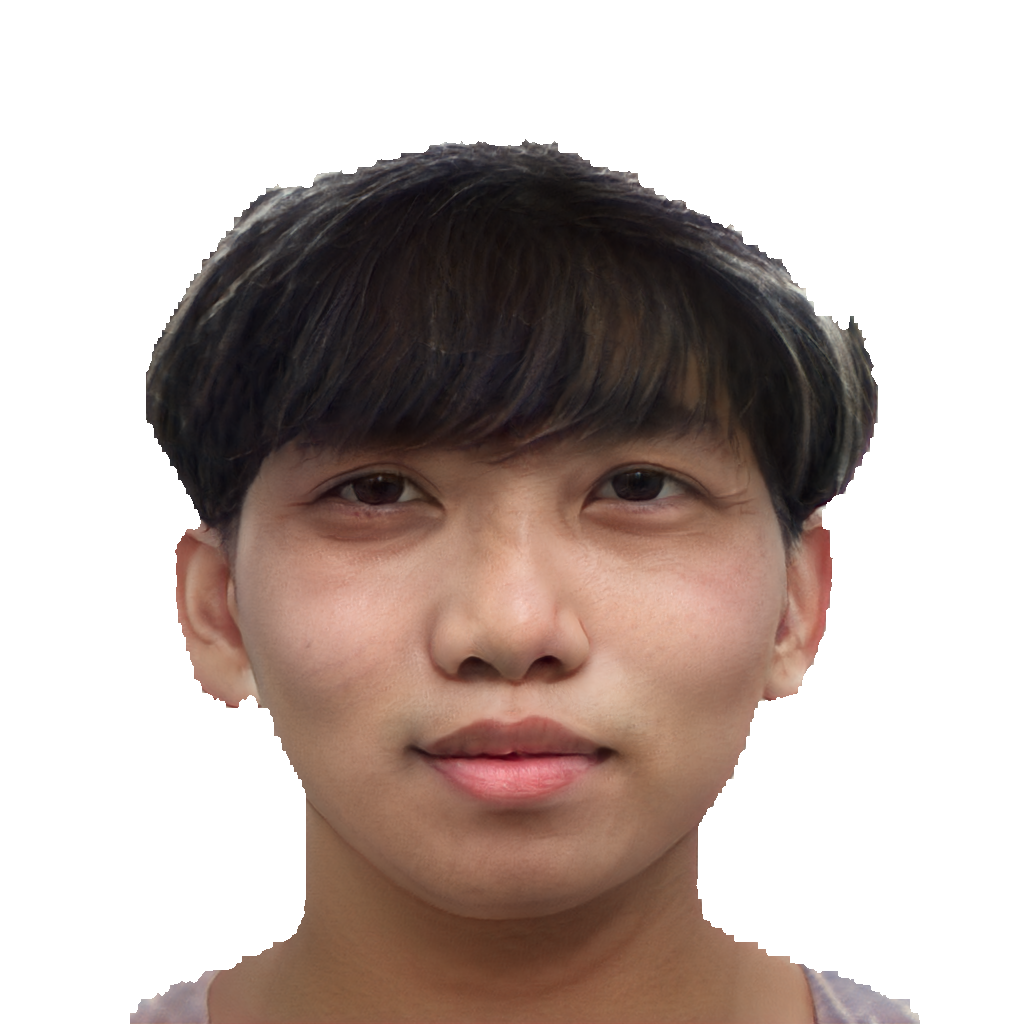
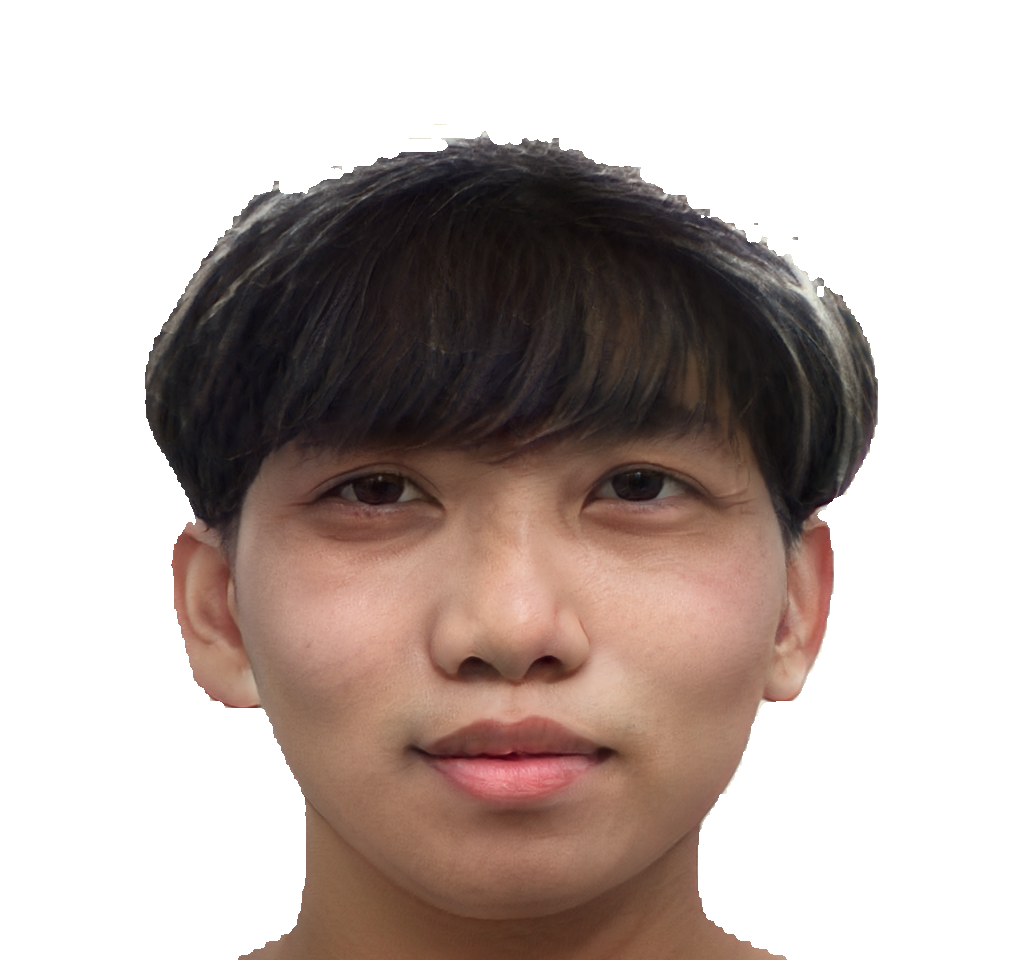
feat: integrate with HPE and StyleGAN, add defense front-end, update sprite

Changed region(s): [[0.125, 0.125, 0.9062, 1.0], [0.125, 0.9062, 0.3125, 1.0], [0.6562, 0.3438, 0.6875, 0.375]]

diff --git a/fighter.py b/fighter.py
@@ -2,11 +2,12 @@ import pygame
 
 
 class Fighter():
-    def __init__(self, player, x, y, flip, data, sprite_sheet, animation_steps, sound):
+    def __init__(self, player, x, y, flip, data, sprite_sheet, animation_steps, sound, style_img_list, head_data):
         self.player = player
-        self.size = data[0]
-        self.image_scale = data[1]
-        self.offset = data[2]
+        self.size_x = data[0]
+        self.size_y = data[1]
+        self.image_scale = data[2]
+        self.offset = data[3]
         self.flip = flip
         self.animation_list = self.load_images(sprite_sheet, animation_steps)
         self.action = 0  # 0:idle #1:run #2:jump #3:attack1 #4: attack2 #5:hit #6:death
@@ -18,12 +19,21 @@ class Fighter():
         self.running = False
         self.jump = False
         self.attacking = False
+        self.defense = False
         self.attack_type = 0
         self.attack_cooldown = 0
         self.attack_sound = sound
         self.hit = False
         self.health = 100
         self.alive = True
+        self.head_list = style_img_list
+        self.head_count = 0
+        self.head_size = head_data[0]
+        self.head_scale = head_data[1]
+        self.head_offset = head_data[2]
+        self.head_img = pygame.image.load(self.head_list[self.head_count])   # start from the first style img (0)
+        self.head_img = pygame.transform.scale(self.head_img, (self.head_size, self.head_size))
+
 
     def load_images(self, sprite_sheet, animation_steps):
         # extract images from spritesheet
@@ -32,13 +42,13 @@ class Fighter():
             temp_img_list = []
             for x in range(animation):
                 temp_img = sprite_sheet.subsurface(
-                    x * self.size, y * self.size, self.size, self.size)
+                    x * self.size_x, y * self.size_y, self.size_x, self.size_y)
                 temp_img_list.append(pygame.transform.scale(
-                    temp_img, (self.size * self.image_scale, self.size * self.image_scale)))
+                    temp_img, (self.size_x * self.image_scale, self.size_y * self.image_scale)))
             animation_list.append(temp_img_list)
         return animation_list
 
-    def move(self, screen_width, screen_height, surface, target, round_over):
+    def move(self, screen_width, screen_height, surface, target, round_over, action):
         SPEED = 10
         GRAVITY = 2
         dx = 0
@@ -54,10 +64,10 @@ class Fighter():
             # check player 1 controls
             if self.player == 1:
                 # movement
-                if key[pygame.K_a]:
+                if key[pygame.K_a] or action[0]:    # raise left hand
                     dx = -SPEED
                     self.running = True
-                if key[pygame.K_d]:
+                if key[pygame.K_d] or action[1]:    # raise right hand
                     dx = SPEED
                     self.running = True
                 # jump
@@ -65,21 +75,24 @@ class Fighter():
                     self.vel_y = -30
                     self.jump = True
                 # attack
-                if key[pygame.K_r] or key[pygame.K_t]:
+                if key[pygame.K_r] or key[pygame.K_t] or action[2] or action[3]:    # punch left or right
                     self.attack(target)
                     # determine which attack type was used
-                    if key[pygame.K_r]:
-                        self.attack_type = 1
-                    if key[pygame.K_t]:
+                    if key[pygame.K_r] or action[2] or action[3]:
                         self.attack_type = 2
+                    if key[pygame.K_t] or action[2] or action[3]:
+                        self.attack_type = 1
+                # defense
+                if key[pygame.K_f] or action[4]:    # defense
+                    self.defense = True
 
             # check player 2 controls
             if self.player == 2:
                 # movement
-                if key[pygame.K_LEFT]:
+                if key[pygame.K_LEFT] or action[0]:
                     dx = -SPEED
                     self.running = True
-                if key[pygame.K_RIGHT]:
+                if key[pygame.K_RIGHT] or action[1]:
                     dx = SPEED
                     self.running = True
                 # jump
@@ -87,13 +100,16 @@ class Fighter():
                     self.vel_y = -30
                     self.jump = True
                 # attack
-                if key[pygame.K_SPACE] or key[pygame.K_KP2]:
+                if key[pygame.K_SPACE] or key[pygame.K_KP2] or action[2] or action[3]:
                     self.attack(target)
                     # determine which attack type was used
-                    if key[pygame.K_SPACE]:
-                        self.attack_type = 1
-                    if key[pygame.K_KP2]:
+                    if key[pygame.K_SPACE] or action[2] or action[3]:
                         self.attack_type = 2
+                    if key[pygame.K_KP2] or action[2] or action[3]:
+                        self.attack_type = 1
+                # defense
+                if key[pygame.K_m] or action[4]:    # defense
+                    self.defense = True
 
         # apply gravity
         self.vel_y += GRAVITY
@@ -142,8 +158,11 @@ class Fighter():
             self.update_action(2)  # 2:jump
         elif self.running == True:
             self.update_action(1)  # 1:run
+        elif self.defense == True:
+            self.update_action(7)   # 7:defense
         else:
             self.update_action(0)  # 0:idle
+
 
         animation_cooldown = 50
         # update image
@@ -169,6 +188,9 @@ class Fighter():
                     # if the player was in the middle of an attack, then the attack is stopped
                     self.attacking = False
                     self.attack_cooldown = 20
+                if self.action == 7:
+                    self.defense = False
+
 
     def attack(self, target):
         if self.attack_cooldown == 0:
@@ -180,6 +202,9 @@ class Fighter():
             if attacking_rect.colliderect(target.rect):
                 target.health -= 10
                 target.hit = True
+                target.head_count += 1
+                target.head_img = pygame.image.load(target.head_list[target.head_count])   # start from the first style img (0)
+                target.head_img = pygame.transform.scale(target.head_img, (target.head_size, target.head_size))
 
     def update_action(self, new_action):
         # check if the new action is different to the previous one
@@ -191,5 +216,8 @@ class Fighter():
 
     def draw(self, surface):
         img = pygame.transform.flip(self.image, self.flip, False)
+        head = pygame.transform.flip(self.head_img, self.flip, False)
         surface.blit(img, (self.rect.x - (self.offset[0] * self.image_scale), self.rect.y - (
             self.offset[1] * self.image_scale)))
+        surface.blit(head, (self.rect.x - (self.head_offset[0] * self.head_scale), self.rect.y - (
+            self.head_offset[1] * self.head_scale)))

diff --git a/main.py b/main.py
@@ -1,6 +1,8 @@
 import pygame
 from pygame import mixer
 from fighter import Fighter
+import os
+import natsort
 
 mixer.init()
 pygame.init()
@@ -29,15 +31,37 @@ score = [0, 0]  # player scores. [P1, P2]
 round_over = False
 ROUND_OVER_COOLDOWN = 2000
 
+# # define fighter variables
+# WARRIOR_SIZE = 144
+# WARRIOR_SCALE = 2
+# WARRIOR_OFFSET = [72, 56]
+# WARRIOR_DATA = [WARRIOR_SIZE, WARRIOR_SCALE, WARRIOR_OFFSET]
+# WIZARD_SIZE = 144
+# WIZARD_SCALE = 2
+# WIZARD_OFFSET = [112, 56]
+# WIZARD_DATA = [WIZARD_SIZE, WIZARD_SCALE, WIZARD_OFFSET]
+
 # define fighter variables
-WARRIOR_SIZE = 144
-WARRIOR_SCALE = 2
-WARRIOR_OFFSET = [72, 56]
-WARRIOR_DATA = [WARRIOR_SIZE, WARRIOR_SCALE, WARRIOR_OFFSET]
-WIZARD_SIZE = 144
-WIZARD_SCALE = 2
-WIZARD_OFFSET = [112, 56]
-WIZARD_DATA = [WIZARD_SIZE, WIZARD_SCALE, WIZARD_OFFSET]
+P1_SIZE_X = 172 #153     # the step for cropping the sprite
+P1_SIZE_Y = 165 #147
+P1_SCALE = 2.5
+P1_OFFSET = [60, 56]
+P1_DATA = [P1_SIZE_X, P1_SIZE_Y, P1_SCALE, P1_OFFSET]
+P2_SIZE_X = 172
+P2_SIZE_Y = 165
+P2_SCALE = 2.5
+P2_OFFSET = [60, 56]
+P2_DATA = [P2_SIZE_X, P2_SIZE_Y, P2_SCALE, P2_OFFSET]
+
+# define fighter's head variables (i.e., style image)
+HEAD1_SIZE = 180
+HEAD1_SCALE = 1
+HEAD1_OFFSET = [10, 125]
+HEAD1_DATA = [HEAD1_SIZE, HEAD1_SCALE, HEAD1_OFFSET]
+HEAD2_SIZE = 210
+HEAD2_SCALE = 1
+HEAD2_OFFSET = [52, 150]    # x bigger -> left
+HEAD2_DATA = [HEAD2_SIZE, HEAD2_SCALE, HEAD2_OFFSET]
 
 # load music and sounds
 # pygame.mixer.music.load("assets/audio/music.mp3")
@@ -52,20 +76,34 @@ magic_fx.set_volume(0.1)
 bg_image = pygame.image.load("assets/images/background/background.jpeg").convert_alpha()
 alpha = 128
 bg_image.fill((255, 255, 255, alpha), None, pygame.BLEND_RGBA_MULT)
-# bg_image = pygame.image.load("assets/images/background/background.jpg").convert_alpha()
 
 # load spritesheets
-warrior_sheet = pygame.image.load("assets/images/character/stickman_blue_nobg.png").convert_alpha()
-# warrior_sheet = pygame.image.load("assets/images/wizard/Sprites/warrior.png").convert_alpha()
-wizard_sheet = pygame.image.load("assets/images/character/stickman_red_nobg.png").convert_alpha()
-# wizard_sheet = pygame.image.load("assets/images/wizard/Sprites/wizard.png").convert_alpha()
+# warrior_sheet = pygame.image.load("assets/images/stickman/test_frame.jpg").convert_alpha()
+warrior_sheet = pygame.image.load("assets/images/stickman/blue_rmbg.png").convert_alpha()
+wizard_sheet = pygame.image.load("assets/images/stickman/red_rmbg.png").convert_alpha()
+
+# styleGAN player 1 image path list
+style_path = "assets/images/stylegan/inference_result_rmbg1"
+player_s1 = []  # player sytle 1 img list
+for root, dirs, files in os.walk(os.path.abspath(style_path)):
+    for file in files:
+        player_s1.append(os.path.join(root, file))  # abs path
+player_s1 = natsort.natsorted(player_s1)    # natural sorting a list
+
+# styleGAN player 2
+style_path = "assets/images/stylegan/inference_result_rmbg2"
+player_s2 = []
+for root, dirs, files in os.walk(os.path.abspath(style_path)):
+    for file in files:
+        player_s2.append(os.path.join(root, file))
+player_s2 = natsort.natsorted(player_s2)
 
 # load vicory image
 victory_img = pygame.image.load("assets/images/icons/victory.png").convert_alpha()
 
 # define number of steps in each animation
-WARRIOR_ANIMATION_STEPS = [1, 1, 1, 5, 5, 1, 1]
-WIZARD_ANIMATION_STEPS = [1, 1, 1, 5, 5, 1, 1]
+WARRIOR_ANIMATION_STEPS = [1, 1, 1, 5, 5, 5, 1, 5]
+WIZARD_ANIMATION_STEPS = [1, 1, 1, 5, 5, 5, 1, 5]
 
 # define font
 count_font = pygame.font.Font("assets/fonts/turok.ttf", 80)
@@ -90,14 +128,19 @@ def draw_health_bar(health, x, y):
 
 
 # create two instances of fighters
-fighter_1 = Fighter(1, 200, 310, False, WARRIOR_DATA,
-                    warrior_sheet, WARRIOR_ANIMATION_STEPS, sword_fx)
-fighter_2 = Fighter(2, 700, 310, True, WIZARD_DATA,
-                    wizard_sheet, WIZARD_ANIMATION_STEPS, magic_fx)
+fighter_1 = Fighter(1, 200, 310, False, P1_DATA,
+                    warrior_sheet, WARRIOR_ANIMATION_STEPS, sword_fx, player_s1, HEAD1_DATA)
+fighter_2 = Fighter(2, 700, 310, True, P2_DATA,
+                    wizard_sheet, WIZARD_ANIMATION_STEPS, magic_fx, player_s2, HEAD2_DATA)
 
 # game loop
 run = True
 while run:
+
+    P1_action = [False, False, False, False, False]  # bool list
+    P2_action = [False, False, False, False, False]
+
+    # ⬆ human pose estimation ⬆
 
     clock.tick(FPS)
 
@@ -114,9 +157,9 @@ while run:
     if intro_count <= 0:
         # move fighters
         fighter_1.move(SCREEN_WIDTH, SCREEN_HEIGHT,
-                       screen, fighter_2, round_over)
+                       screen, fighter_2, round_over, P1_action)
         fighter_2.move(SCREEN_WIDTH, SCREEN_HEIGHT,
-                       screen, fighter_1, round_over)
+                       screen, fighter_1, round_over, P2_action)
     else:
         # display count timer
         draw_text(str(intro_count), count_font, RED,
@@ -150,10 +193,10 @@ while run:
         if pygame.time.get_ticks() - round_over_time > ROUND_OVER_COOLDOWN:
             round_over = False
             intro_count = 3
-            fighter_1 = Fighter(1, 200, 310, False, WARRIOR_DATA,
-                                warrior_sheet, WARRIOR_ANIMATION_STEPS, sword_fx)
-            fighter_2 = Fighter(2, 700, 310, True, WIZARD_DATA,
-                                wizard_sheet, WIZARD_ANIMATION_STEPS, magic_fx)
+            fighter_1 = Fighter(1, 200, 310, False, P1_DATA,
+                                warrior_sheet, WARRIOR_ANIMATION_STEPS, sword_fx, player_s1, HEAD1_DATA)
+            fighter_2 = Fighter(2, 700, 310, True, P2_DATA,
+                                wizard_sheet, WIZARD_ANIMATION_STEPS, magic_fx, player_s2, HEAD2_DATA)
 
     # event handler
     for event in pygame.event.get():

diff --git a/README.md b/README.md
@@ -19,3 +19,14 @@
     ```bash
     pip install -r requirements.txt
     ```
+
+## How to play
+- Player 1  
+W, A, S, D: move  
+R: attack  
+F: defense  
+
+- Player 2  
+Arrow key: move  
+Space: attack  
+M: defense
